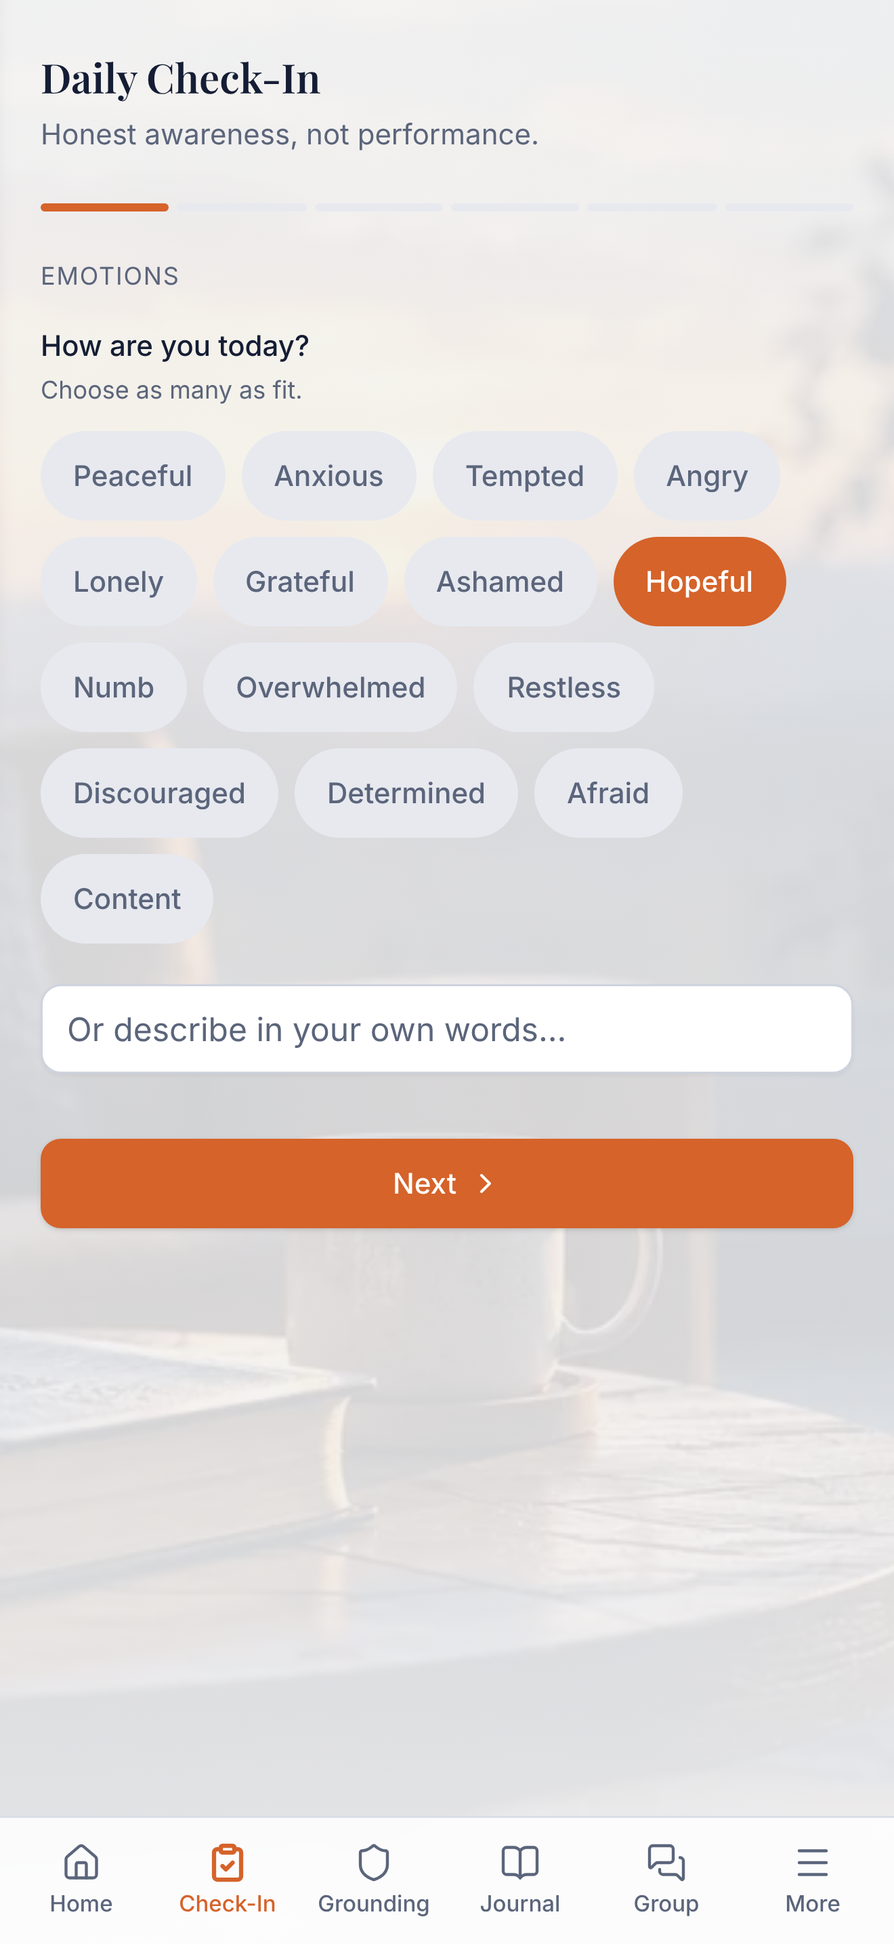
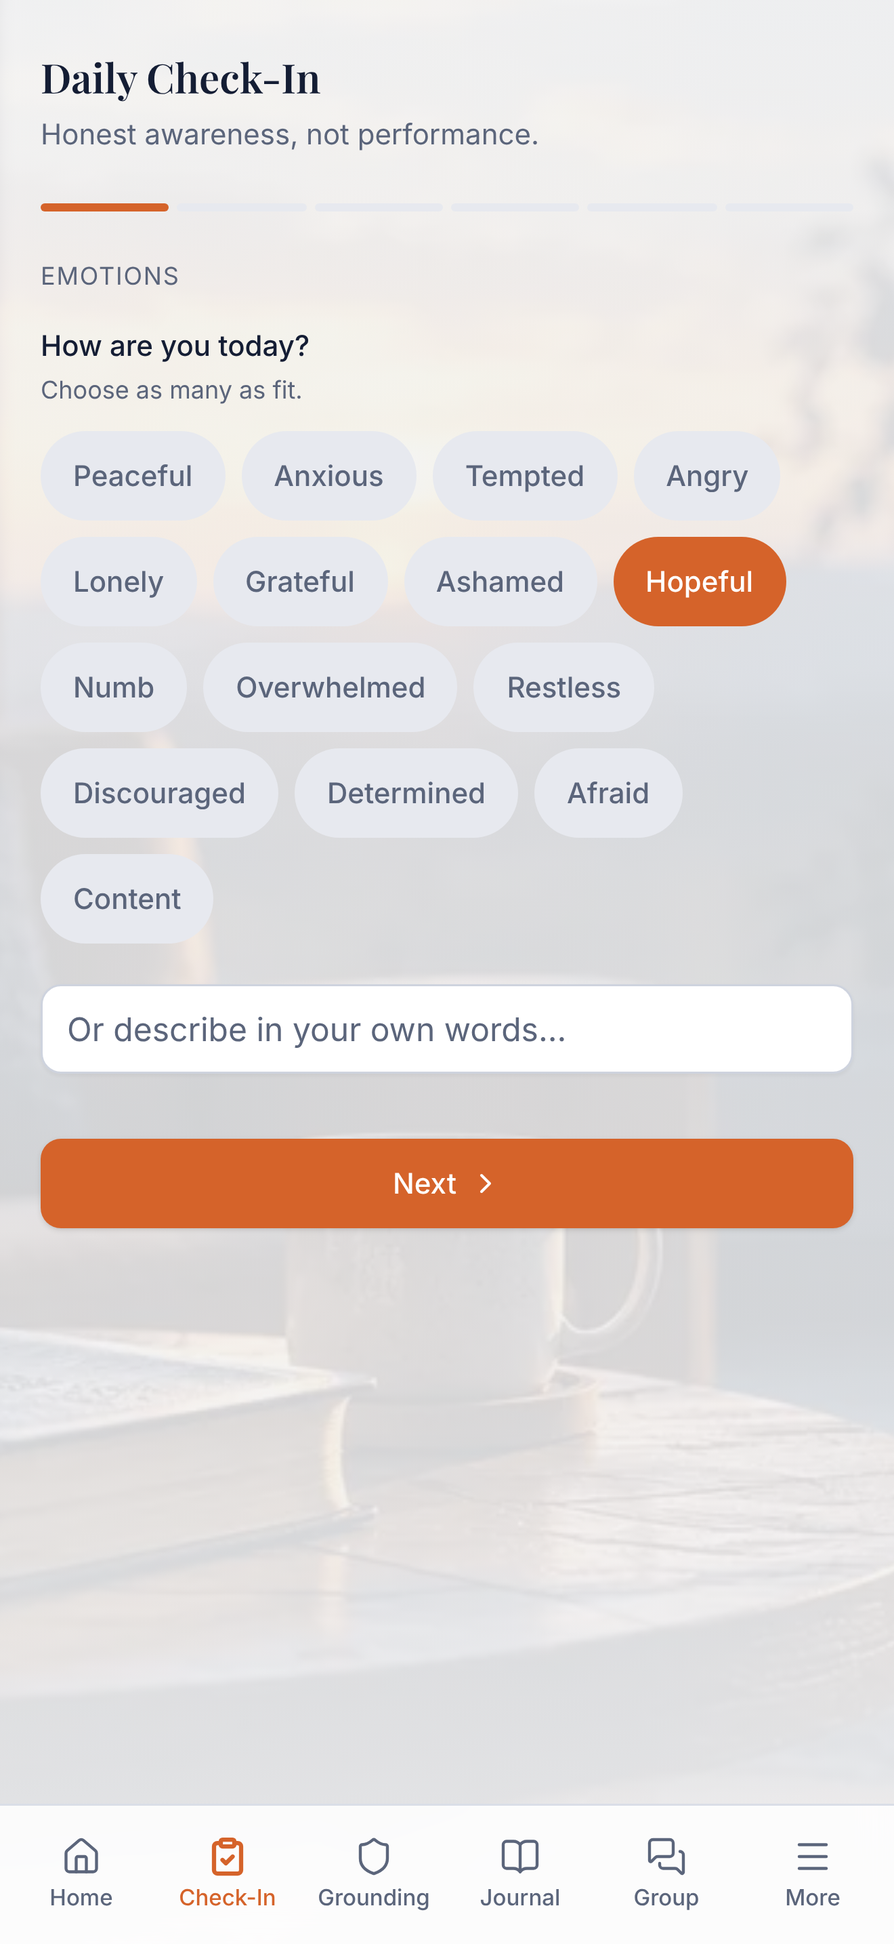
Help Me Now opens your support people; message bar sits on the tab bar
- Help Me Now on Home now opens "I Need Support": every support person,
  each one tap from a ready-to-send text (email if no mobile number),
  plus "Add or change support people" and 988 for emergencies. With
  nobody added yet it offers "Add a support person". The separate
  I Need Support row is gone, and the daily encouragement card takes
  its place below the quick actions. The "Help Me Now" app shortcut
  opens the same list (/home?help=1).
- Group chat: the tab bar is exactly --tabbar-height tall and the chat
  fills the screen down to it, so the message bar sits flush on the tab
  bar (same surface) even with few messages; with the keyboard open it
  sits on the keyboard. An e2e check guards the alignment.

Claude-Session: https://claude.ai/code/session_01TEFAANzDiQcpsyVRuxpyzX

diff --git a/src/pages/Home.tsx b/src/pages/Home.tsx
@@ -1,5 +1,4 @@
-import { useState } from 'react'
-import { Link } from 'react-router'
+import { Link, useSearchParams } from 'react-router'
 import {
   BookOpen,
   Circle,
@@ -38,6 +37,10 @@ export default function Home() {
   const today = useTodayCheckIn()
   const week = useWeekCheckIns()
   const contacts = useContacts()
+  // ?help=1 opens "I Need Support" (also the "Help Me Now" app shortcut).
+  const [params, setParams] = useSearchParams()
+  const helpOpen = params.get('help') === '1'
+  const setHelpOpen = (open: boolean) => setParams(open ? { help: '1' } : {}, { replace: true })
 
   if (profile.isPending || !profile.data) {
     return (
@@ -68,13 +71,13 @@ export default function Home() {
         {!profile.data.gender && <AboutYouPrompt profileId={profile.data.id} />}
         <NotificationsPrompt />
         <InstallPrompt />
+        <QuickActions onHelp={() => setHelpOpen(true)} />
         <Encouragement track={track} />
-        <QuickActions />
-        <SupportButton todayCheckIn={today.data ?? null} />
         <WeeklyInsights track={track} />
         <TodayCheckInCard checkIn={today.data ?? null} />
         <TodaysFocus track={track} />
       </div>
+      <SupportSheet open={helpOpen} onOpenChange={setHelpOpen} todayCheckIn={today.data ?? null} />
     </PullToRefresh>
   )
 }
@@ -89,8 +92,7 @@ function Encouragement({ track }: { track: Track }) {
   )
 }
 
-const QUICK_ACTIONS: { label: string; to: string; icon: LucideIcon; color: string }[] = [
-  { label: 'Help Me Now', to: paths.grounding, icon: Shield, color: 'bg-primary text-primary-foreground' },
+const QUICK_LINKS: { label: string; to: string; icon: LucideIcon; color: string }[] = [
   {
     label: 'Check In',
     to: paths.checkIn,
@@ -106,17 +108,28 @@ const QUICK_ACTIONS: { label: string; to: string; icon: LucideIcon; color: strin
   },
 ]
 
-function QuickActions() {
+const tileClass =
+  'flex size-14 items-center justify-center rounded-2xl transition-transform group-active:scale-95'
+
+function QuickActions({ onHelp }: { onHelp: () => void }) {
   return (
     <nav aria-label="Quick actions" className="grid grid-cols-4 gap-3">
-      {QUICK_ACTIONS.map(({ label, to, icon: Icon, color }) => (
+      <button
+        type="button"
+        onClick={() => {
+          hapticTap()
+          onHelp()
+        }}
+        className="group flex flex-col items-center gap-2"
+      >
+        <span className={cn(tileClass, 'bg-primary text-primary-foreground')}>
+          <Shield className="size-5" aria-hidden="true" />
+        </span>
+        <span className="text-center text-xs font-medium leading-tight text-foreground">Help Me Now</span>
+      </button>
+      {QUICK_LINKS.map(({ label, to, icon: Icon, color }) => (
         <Link key={label} to={to} className="group flex flex-col items-center gap-2">
-          <span
-            className={cn(
-              'flex size-14 items-center justify-center rounded-2xl transition-transform group-active:scale-95',
-              color,
-            )}
-          >
+          <span className={cn(tileClass, color)}>
             <Icon className="size-5" aria-hidden="true" />
           </span>
           <span className="text-center text-xs font-medium leading-tight text-foreground">{label}</span>
@@ -126,53 +139,47 @@ function QuickActions() {
   )
 }
 
-function SupportButton({ todayCheckIn }: { todayCheckIn: CheckIn | null }) {
+/**
+ * "Help Me Now": the people you trust, each one tap from a ready-to-send
+ * text (or email, for a contact without a mobile number).
+ */
+function SupportSheet({
+  open,
+  onOpenChange,
+  todayCheckIn,
+}: {
+  open: boolean
+  onOpenChange: (open: boolean) => void
+  todayCheckIn: CheckIn | null
+}) {
   const contacts = useContacts()
-  const [chooserOpen, setChooserOpen] = useState(false)
   const reachable = (contacts.data ?? []).filter((c) => !c.id.startsWith('temp-') && channelFor(c))
-
-  if (reachable.length === 0) {
-    return (
-      <Link
-        to={paths.accountability}
-        className="flex items-center gap-3 rounded-xl border border-dashed bg-card p-4 text-sm text-muted-foreground transition-colors hover:bg-muted/40"
-      >
-        <HandHeart className="size-5 shrink-0 text-primary" aria-hidden="true" />
-        <span>Add a trusted contact's mobile number to reach out in one tap</span>
-      </Link>
-    )
-  }
 
   const send = (contact: AccountabilityContact) => {
     hapticTap()
-    setChooserOpen(false)
+    onOpenChange(false)
     reachOut(contact, 'support', todayCheckIn)
   }
-  const only = reachable.length === 1 ? reachable[0]! : null
-  const subtitle = only
-    ? `${channelFor(only) === 'text' ? 'Text' : 'Email'} ${only.name} (${only.relationship || 'contact'})`
-    : `Choose who to reach (${reachable.length} contacts)`
 
   return (
-    <>
-      <button
-        type="button"
-        onClick={() => (only ? send(only) : setChooserOpen(true))}
-        className="flex w-full items-center gap-3 rounded-xl border border-primary/20 bg-primary/10 p-4 text-left text-primary transition-all hover:bg-primary/15 active:scale-[0.98]"
-      >
-        <HandHeart className="size-5 shrink-0" aria-hidden="true" />
-        <span>
-          <span className="block text-sm font-medium leading-tight">I Need Support</span>
-          <span className="mt-0.5 block text-xs opacity-75">{subtitle}</span>
-        </span>
-      </button>
-      <Sheet open={chooserOpen} onOpenChange={setChooserOpen}>
-        <SheetContent>
-          <DialogTitle className="px-2 pt-2 text-base">Who do you want to reach?</DialogTitle>
-          <DialogDescription className="px-2 text-sm">
-            A message will open, ready for you to send.
-          </DialogDescription>
-          <ul className="space-y-1 py-3">
+    <Sheet open={open} onOpenChange={onOpenChange}>
+      <SheetContent className="max-h-[85dvh] overflow-y-auto">
+        <DialogTitle className="flex items-center gap-2 px-2 pt-2 text-base">
+          <HandHeart className="size-5 text-primary" aria-hidden="true" /> I Need Support
+        </DialogTitle>
+        <DialogDescription className="px-2 text-sm">
+          {reachable.length > 0
+            ? 'Tap someone to text them. A message will open, ready for you to send.'
+            : 'Add the people you trust, so reaching out is one tap away.'}
+        </DialogDescription>
+
+        {contacts.isPending ? (
+          <div className="space-y-2 py-3">
+            <Skeleton className="h-14 w-full rounded-lg" />
+            <Skeleton className="h-14 w-full rounded-lg" />
+          </div>
+        ) : reachable.length > 0 ? (
+          <ul className="space-y-1 py-3" aria-label="Support people">
             {reachable.map((c) => {
               const text = channelFor(c) === 'text'
               const Icon = text ? MessageSquare : Mail
@@ -196,9 +203,38 @@ function SupportButton({ todayCheckIn }: { todayCheckIn: CheckIn | null }) {
               )
             })}
           </ul>
-        </SheetContent>
-      </Sheet>
-    </>
+        ) : (
+          <div className="py-4">
+            <Link
+              to={paths.accountability}
+              onClick={() => onOpenChange(false)}
+              className="flex min-h-12 w-full items-center justify-center gap-2 rounded-md bg-primary px-4 text-sm font-medium text-primary-foreground"
+            >
+              <HandHeart className="size-4" aria-hidden="true" /> Add a support person
+            </Link>
+          </div>
+        )}
+
+        <div className="space-y-1 border-t pb-1 pt-3 text-center">
+          {reachable.length > 0 && (
+            <Link
+              to={paths.accountability}
+              onClick={() => onOpenChange(false)}
+              className="inline-flex min-h-11 items-center px-3 text-sm font-medium text-primary"
+            >
+              Add or change support people
+            </Link>
+          )}
+          <p className="text-xs text-muted-foreground">
+            In danger right now? Call or text{' '}
+            <a href="tel:988" className="font-semibold text-primary underline">
+              988
+            </a>
+            , or call 911.
+          </p>
+        </div>
+      </SheetContent>
+    </Sheet>
   )
 }
 

diff --git a/tests/e2e/journey.spec.ts b/tests/e2e/journey.spec.ts
@@ -76,7 +76,13 @@ test('men: onboarding, check-in, insights, journal, triggers, grounding', async 
   // Home
   await expect(page.getByText('Complete daily check-ins to see your emotional patterns here.')).toBeVisible()
   await expect(page.getByText("Today's Focus")).toBeVisible()
-  await expect(page.getByRole('link', { name: /Add a trusted contact's mobile number/ })).toBeVisible()
+  // Help Me Now opens "I Need Support"; with nobody added yet it offers to add someone.
+  await page.getByRole('button', { name: 'Help Me Now' }).click()
+  const help = page.getByRole('dialog', { name: 'I Need Support' })
+  await expect(help.getByRole('link', { name: 'Add a support person' })).toBeVisible()
+  await expect(help.getByRole('link', { name: '988' })).toHaveAttribute('href', 'tel:988')
+  await page.keyboard.press('Escape')
+  await expect(help).toBeHidden()
 
   // Daily check-in (6 steps). A custom emotion alone is enough to continue.
   await page.getByRole('navigation', { name: 'Main' }).getByRole('link', { name: 'Check-In' }).click()
@@ -303,21 +309,26 @@ test('spouse: track-specific content, resources, identity, library, accountabili
   expect(checkInLink).toMatch(/^sms:5550100100[?&]body=/)
   expect(decodeURIComponent(checkInLink)).toContain('Hi Sister, could you check in on me')
 
+  // Help Me Now lists support people; tapping one opens a ready-to-send text.
   await page.goto('/home')
-  await expect(page.getByText('Text Sister Ruth (Mentor)')).toBeVisible()
-  await page.getByRole('button', { name: /I Need Support/ }).click()
+  await page.getByRole('button', { name: 'Help Me Now' }).click()
+  const helpSheet = page.getByRole('dialog', { name: 'I Need Support' })
+  await expect(helpSheet.getByRole('button', { name: /Sister Ruth.*Mentor.*Text/ })).toBeVisible()
+  await helpSheet.getByRole('button', { name: /Sister Ruth/ }).click()
   expect(decodeURIComponent((await openedLinks()).at(-1) ?? '')).toContain('I need support right now.')
+  await expect(helpSheet).toBeHidden()
 
-  // With two contacts, I Need Support asks who to reach.
+  // Every support person is listed; one without a mobile number gets an email.
   await page.goto('/accountability')
   await page.getByRole('button', { name: 'Add' }).click()
   await dialog.getByLabel('Name').fill('Pastor Dan')
   await dialog.getByLabel('Email (optional)').fill('dan@example.com')
   await dialog.getByRole('button', { name: 'Add Contact' }).click()
   await expect(page.getByText('Pastor Dan')).toBeVisible()
-  await page.goto('/home')
-  await page.getByRole('button', { name: /I Need Support/ }).click()
-  const chooser = page.getByRole('dialog', { name: 'Who do you want to reach?' })
+  // The "Help Me Now" app shortcut opens the same list.
+  await page.goto('/home?help=1')
+  const chooser = page.getByRole('dialog', { name: 'I Need Support' })
+  await expect(chooser.getByRole('button', { name: /Sister Ruth/ })).toBeVisible()
   await chooser.getByRole('button', { name: /Pastor Dan/ }).click()
   expect((await openedLinks()).at(-1)).toMatch(/^mailto:dan%40example\.com\?subject=I%20need%20support/)
   await page.goto('/accountability')
@@ -461,6 +472,14 @@ test('group chat: join with a chosen name, send, reply, like, delete, leave', as
   await expect(log).toBeVisible()
   await expect(log.getByText('You joined the group')).toBeVisible()
   await expect(log.getByText('Be the first to say hello')).toBeVisible()
+
+  // The message bar sits right on the tab bar (no gap), even with few messages.
+  const gap = await page.evaluate(() => {
+    const bar = document.querySelector('textarea[aria-label="Message the group"]')!.closest('form')!
+    const tabs = document.querySelector('nav[aria-label="Main"]')!
+    return Math.abs(tabs.getBoundingClientRect().top - bar.getBoundingClientRect().bottom)
+  })
+  expect(gap).toBeLessThanOrEqual(1)
 
   // Send
   const box = page.getByRole('textbox', { name: 'Message the group' })

diff --git a/src/components/group/GroupChat.tsx b/src/components/group/GroupChat.tsx
@@ -178,7 +178,19 @@ export function GroupChat({ room, member }: { room: GroupRoomId; member: GroupMe
   }, [])
 
   return (
-    <div className="mx-auto flex w-full max-w-2xl flex-col">
+    <div
+      className="mx-auto flex w-full max-w-2xl flex-col"
+      // Fill the screen down to the tab bar, so the message bar always sits right on it.
+      // (With the keyboard open there's no tab bar; the message bar sits right on the keyboard.)
+      style={
+        keyboardOpen
+          ? { minHeight: 'calc(100dvh - env(safe-area-inset-top, 0px))', marginBottom: -16 }
+          : {
+              minHeight:
+                'calc(100dvh - env(safe-area-inset-top, 0px) - var(--tabbar-height) - env(safe-area-inset-bottom, 0px))',
+            }
+      }
+    >
       {/* Covers the status bar area so scrolled messages don't show behind it. */}
       <div
         aria-hidden="true"
@@ -222,11 +234,7 @@ export function GroupChat({ room, member }: { room: GroupRoomId; member: GroupMe
         </p>
       )}
 
-      <div
-        role="log"
-        aria-label={`${info.name} messages`}
-        className="flex min-h-[calc(100dvh-var(--tabbar-height)-12rem)] flex-1 flex-col px-3 pb-3 pt-2"
-      >
+      <div role="log" aria-label={`${info.name} messages`} className="flex flex-1 flex-col px-3 pb-3 pt-2">
         <div ref={topRef} />
         {isFetchingNextPage && (
           <div className="flex justify-center py-3" role="status" aria-label="Loading earlier messages">
@@ -547,7 +555,8 @@ function Composer({
   return (
     <form
       onSubmit={submit}
-      className="sticky z-20 border-t bg-background/95 px-3 pb-2 pt-2 backdrop-blur supports-[backdrop-filter]:bg-background/80"
+      // Same surface as the tab bar, so the two read as one bar.
+      className="sticky z-20 border-t bg-card/95 px-3 pb-2 pt-2 backdrop-blur supports-[backdrop-filter]:bg-card/85"
       style={{ bottom: keyboardOpen ? 0 : 'calc(var(--tabbar-height) + env(safe-area-inset-bottom, 0px))' }}
     >
       {replyTo && (

diff --git a/src/pages/Privacy.tsx b/src/pages/Privacy.tsx
@@ -112,11 +112,11 @@ export default function Privacy() {
           <H>When information leaves the app</H>
           <ul className="space-y-1">
             <li>
-              <strong>Messages to your accountability contacts.</strong> When you tap "I Need Support" or
-              "Request Check-In", AMP opens your phone's Messages app (or email app) with a message ready for
-              you to review and send. It is sent from your own phone number or email account; AMP never sends
-              it and keeps no copy. "I Need Support" includes a one-line summary of today's check-in, which
-              you can edit before sending.
+              <strong>Messages to your accountability contacts.</strong> When you tap someone under "Help Me
+              Now" (I Need Support) or "Request Check-In", AMP opens your phone's Messages app (or email app)
+              with a message ready for you to review and send. It is sent from your own phone number or email
+              account; AMP never sends it and keeps no copy. "I Need Support" includes a one-line summary of
+              today's check-in, which you can edit before sending.
             </li>
             <li>
               <strong>Grounding Guide (AI).</strong> If you start a Grounding Guide session, the trigger log

diff --git a/src/components/TabBar.tsx b/src/components/TabBar.tsx
@@ -61,7 +61,8 @@ export function TabBar() {
       aria-label="Main"
       className="fixed inset-x-0 bottom-0 z-40 border-t bg-card/95 pb-safe backdrop-blur supports-[backdrop-filter]:bg-card/85"
     >
-      <div className="mx-auto flex max-w-lg items-stretch justify-around px-1 py-1.5">
+      {/* Exactly --tabbar-height tall, so screens that sit above it (the group chat's message bar) line up with it. */}
+      <div className="mx-auto flex h-[var(--tabbar-height)] max-w-lg items-stretch justify-around px-1 py-1.5">
         {TABS.map(({ name, to, icon: Icon }) => (
           <NavLink
             key={to}

diff --git a/vite.config.ts b/vite.config.ts
@@ -109,7 +109,7 @@ export default defineConfig(({ mode }) => {
             {
               name: 'Help Me Now',
               short_name: 'Help',
-              url: '/grounding',
+              url: '/home?help=1',
               icons: [{ src: '/icons/icon-192.png', sizes: '192x192' }],
             },
             {

diff --git a/README.md b/README.md
@@ -14,23 +14,23 @@ This repository is the rebuild of the Base44 app (`amp-copy-4b2a15f1.base44.app`
 
 Every screen from the Base44 app, with its original wording, Scripture, prayers and prompts carried over verbatim:
 
-| Screen               | Path              | Notes                                                                                                               |
-| -------------------- | ----------------- | ------------------------------------------------------------------------------------------------------------------- |
-| Sign in              | `/sign-in`        | Email + password, create account, forgot password                                                                   |
-| Reset password       | `/reset-password` | Opened from the reset email; also Settings → Change Password                                                        |
-| Onboarding           | `/welcome`        | Man or woman, track (recovery / betrayed spouse), reason, needs, reminders                                          |
-| Home                 | `/home`           | Encouragement, quick actions, **I Need Support** (opens a ready-to-send text), weekly insights chart, Today's Focus |
-| Daily Check-In       | `/check-in`       | 6 steps, different for each track                                                                                   |
-| Grounding Tools      | `/grounding`      | Breathing, body grounding, 5-4-3-2-1, prayer, truths, Scripture, reassurance (spouse)                               |
-| Journal              | `/journal`        | Templates, guided prompts, free writing, edit/delete, auto-saved drafts                                             |
-| Group                | `/group`          | GroupMe-style chat, one of four separate groups per person (see [docs/GROUP_CHAT.md](docs/GROUP_CHAT.md))           |
-| Resources            | `/resources`      | Men's and spouses' articles                                                                                         |
-| Library              | `/library`        | Admin-published articles (from the database); appears in the menu once at least one is published                    |
-| Trigger Awareness    | `/triggers`       | Trigger log + AI **Grounding Guide** chat                                                                           |
-| Identity & Scripture | `/identity`       | Truths and Scripture meditation                                                                                     |
-| Accountability       | `/accountability` | Trusted contacts; request a check-in, text, call                                                                    |
-| Settings             | `/settings`       | Name and how it shows, man/woman, group, reminders, appearance, PIN/Face ID lock, sign out, delete account          |
-| Privacy Policy       | `/privacy`        | Public page (required by both stores)                                                                               |
+| Screen               | Path              | Notes                                                                                                                               |
+| -------------------- | ----------------- | ----------------------------------------------------------------------------------------------------------------------------------- |
+| Sign in              | `/sign-in`        | Email + password, create account, forgot password                                                                                   |
+| Reset password       | `/reset-password` | Opened from the reset email; also Settings → Change Password                                                                        |
+| Onboarding           | `/welcome`        | Man or woman, track (recovery / betrayed spouse), reason, needs, reminders                                                          |
+| Home                 | `/home`           | Quick actions (**Help Me Now** lists your support people, each a ready-to-send text), encouragement, weekly insights, Today's Focus |
+| Daily Check-In       | `/check-in`       | 6 steps, different for each track                                                                                                   |
+| Grounding Tools      | `/grounding`      | Breathing, body grounding, 5-4-3-2-1, prayer, truths, Scripture, reassurance (spouse)                                               |
+| Journal              | `/journal`        | Templates, guided prompts, free writing, edit/delete, auto-saved drafts                                                             |
+| Group                | `/group`          | GroupMe-style chat, one of four separate groups per person (see [docs/GROUP_CHAT.md](docs/GROUP_CHAT.md))                           |
+| Resources            | `/resources`      | Men's and spouses' articles                                                                                                         |
+| Library              | `/library`        | Admin-published articles (from the database); appears in the menu once at least one is published                                    |
+| Trigger Awareness    | `/triggers`       | Trigger log + AI **Grounding Guide** chat                                                                                           |
+| Identity & Scripture | `/identity`       | Truths and Scripture meditation                                                                                                     |
+| Accountability       | `/accountability` | Trusted contacts; request a check-in, text, call                                                                                    |
+| Settings             | `/settings`       | Name and how it shows, man/woman, group, reminders, appearance, PIN/Face ID lock, sign out, delete account                          |
+| Privacy Policy       | `/privacy`        | Public page (required by both stores)                                                                                               |
 
 Old Base44 links (`/CheckIn`, `/TriggerAwareness`, `/IdentityFormation`, `/Onboarding`, …) redirect to the new paths.
 
